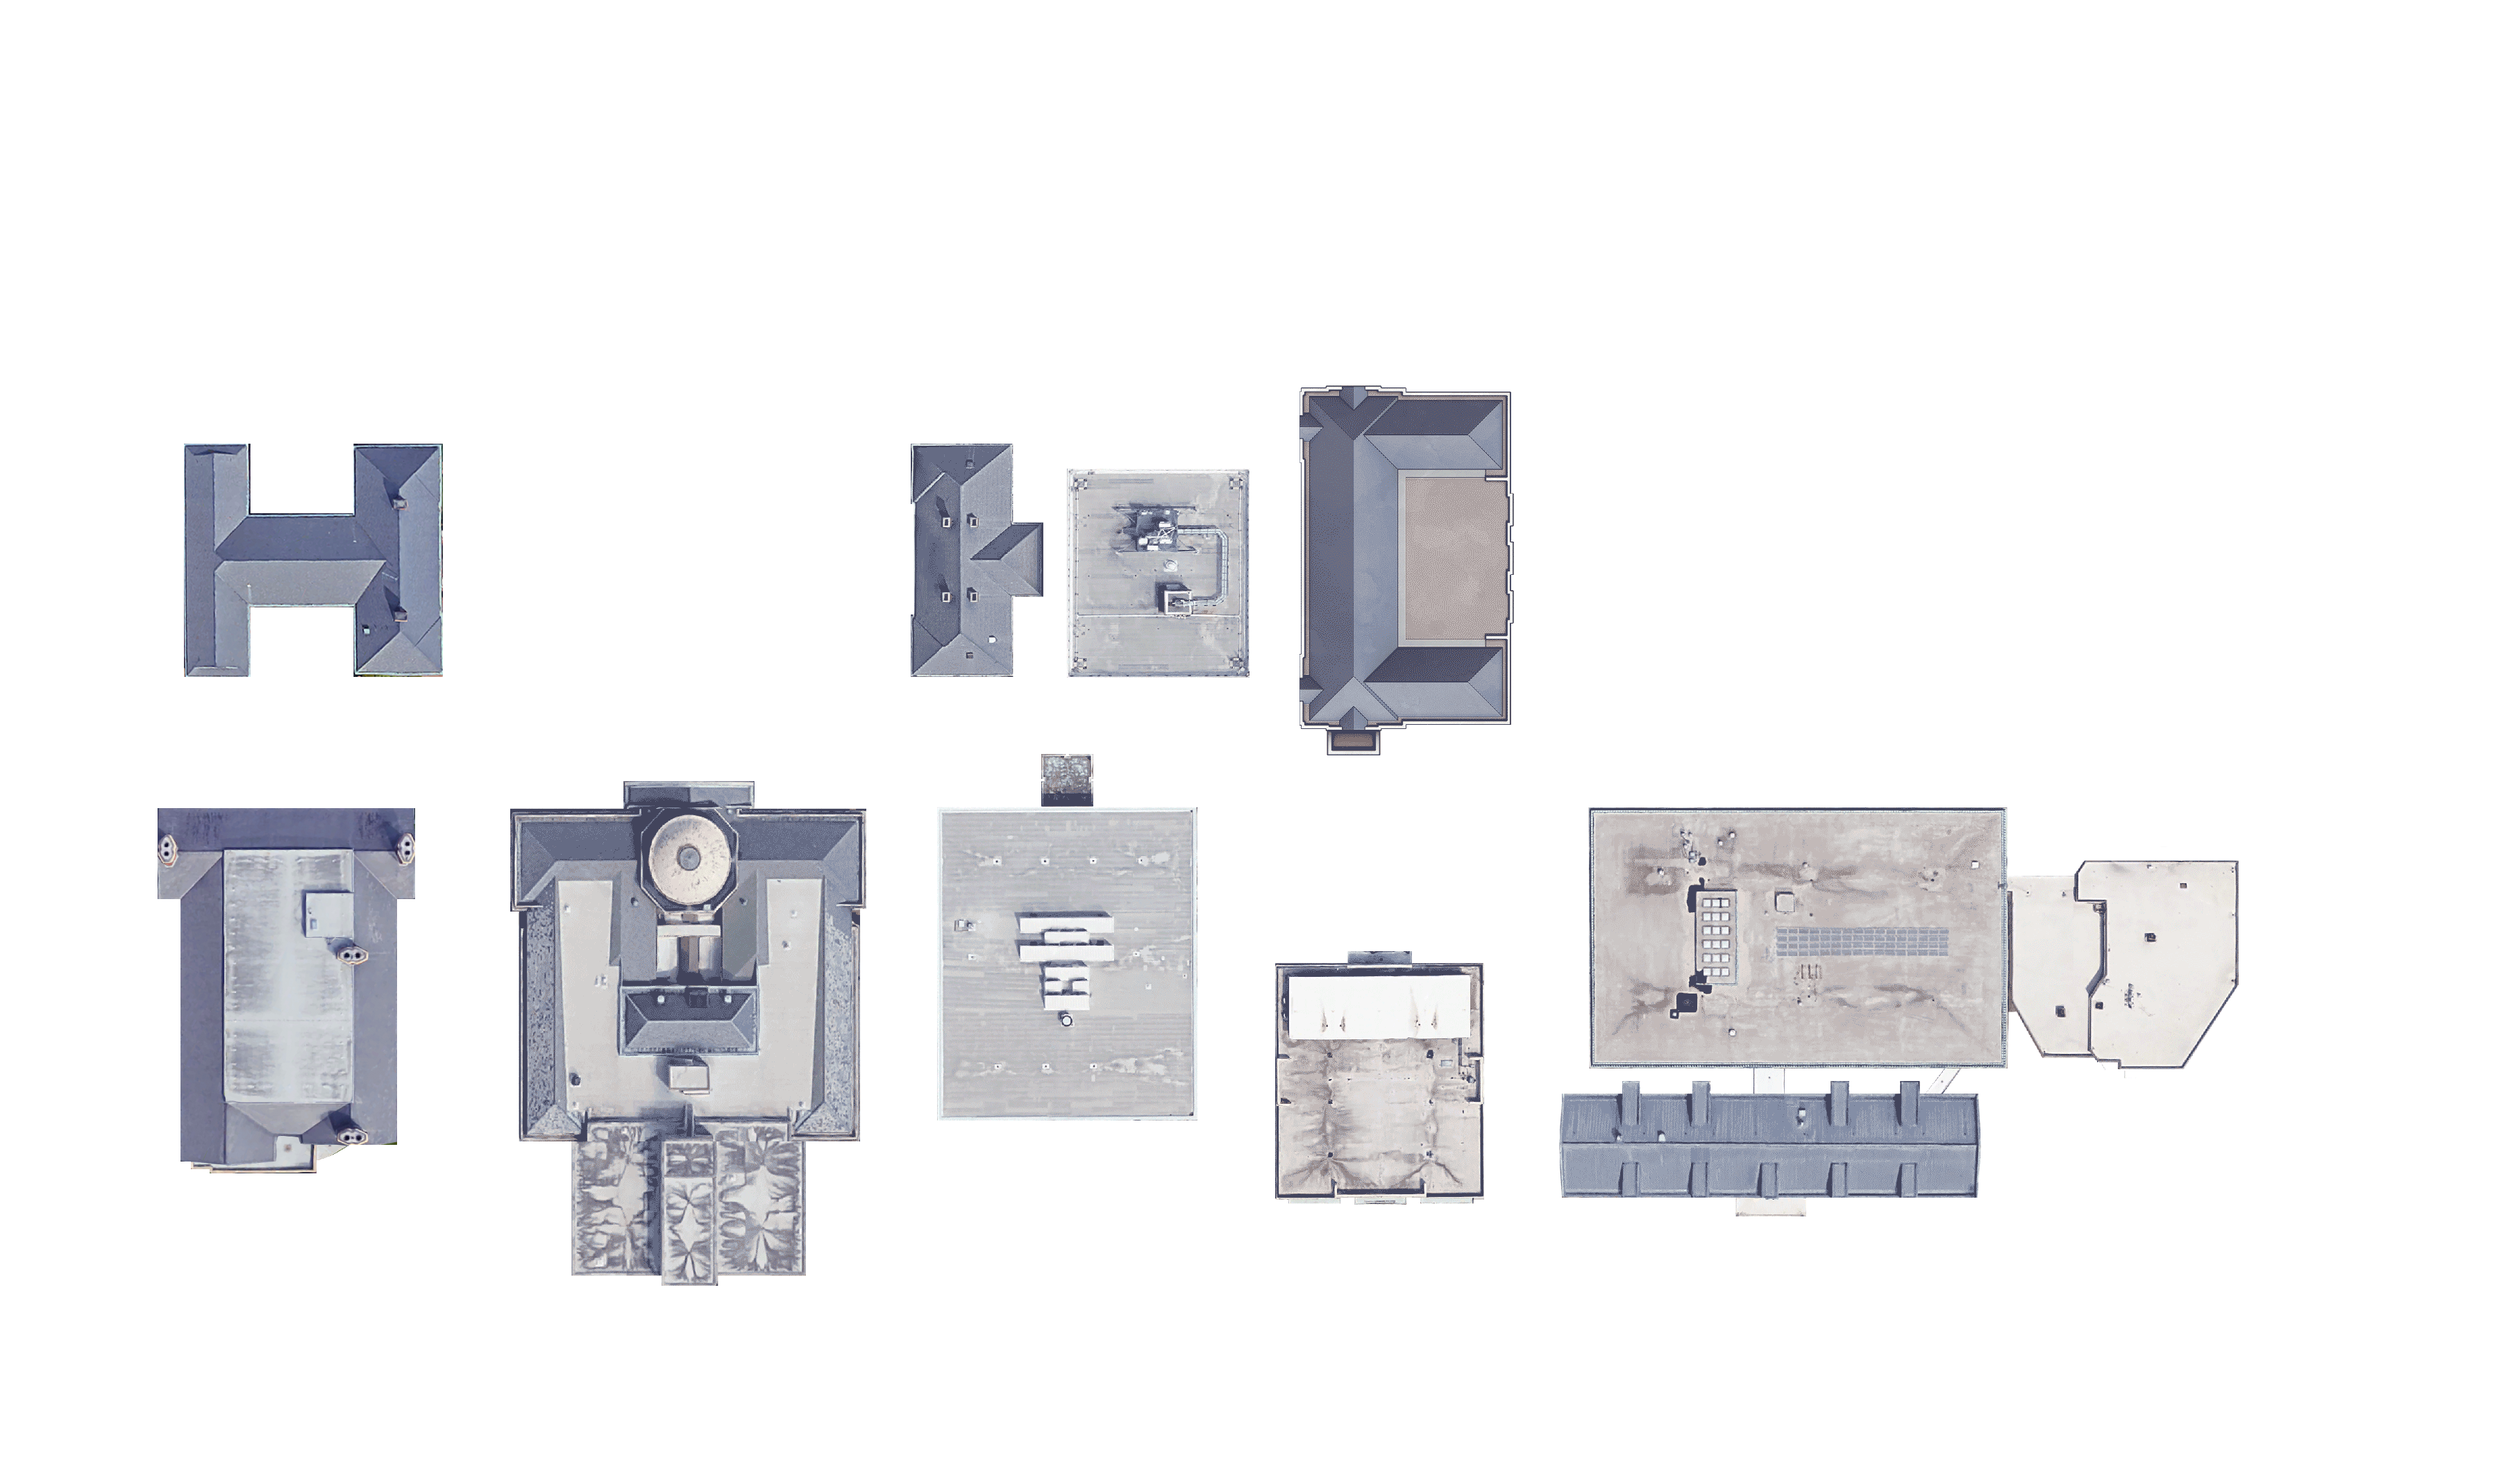
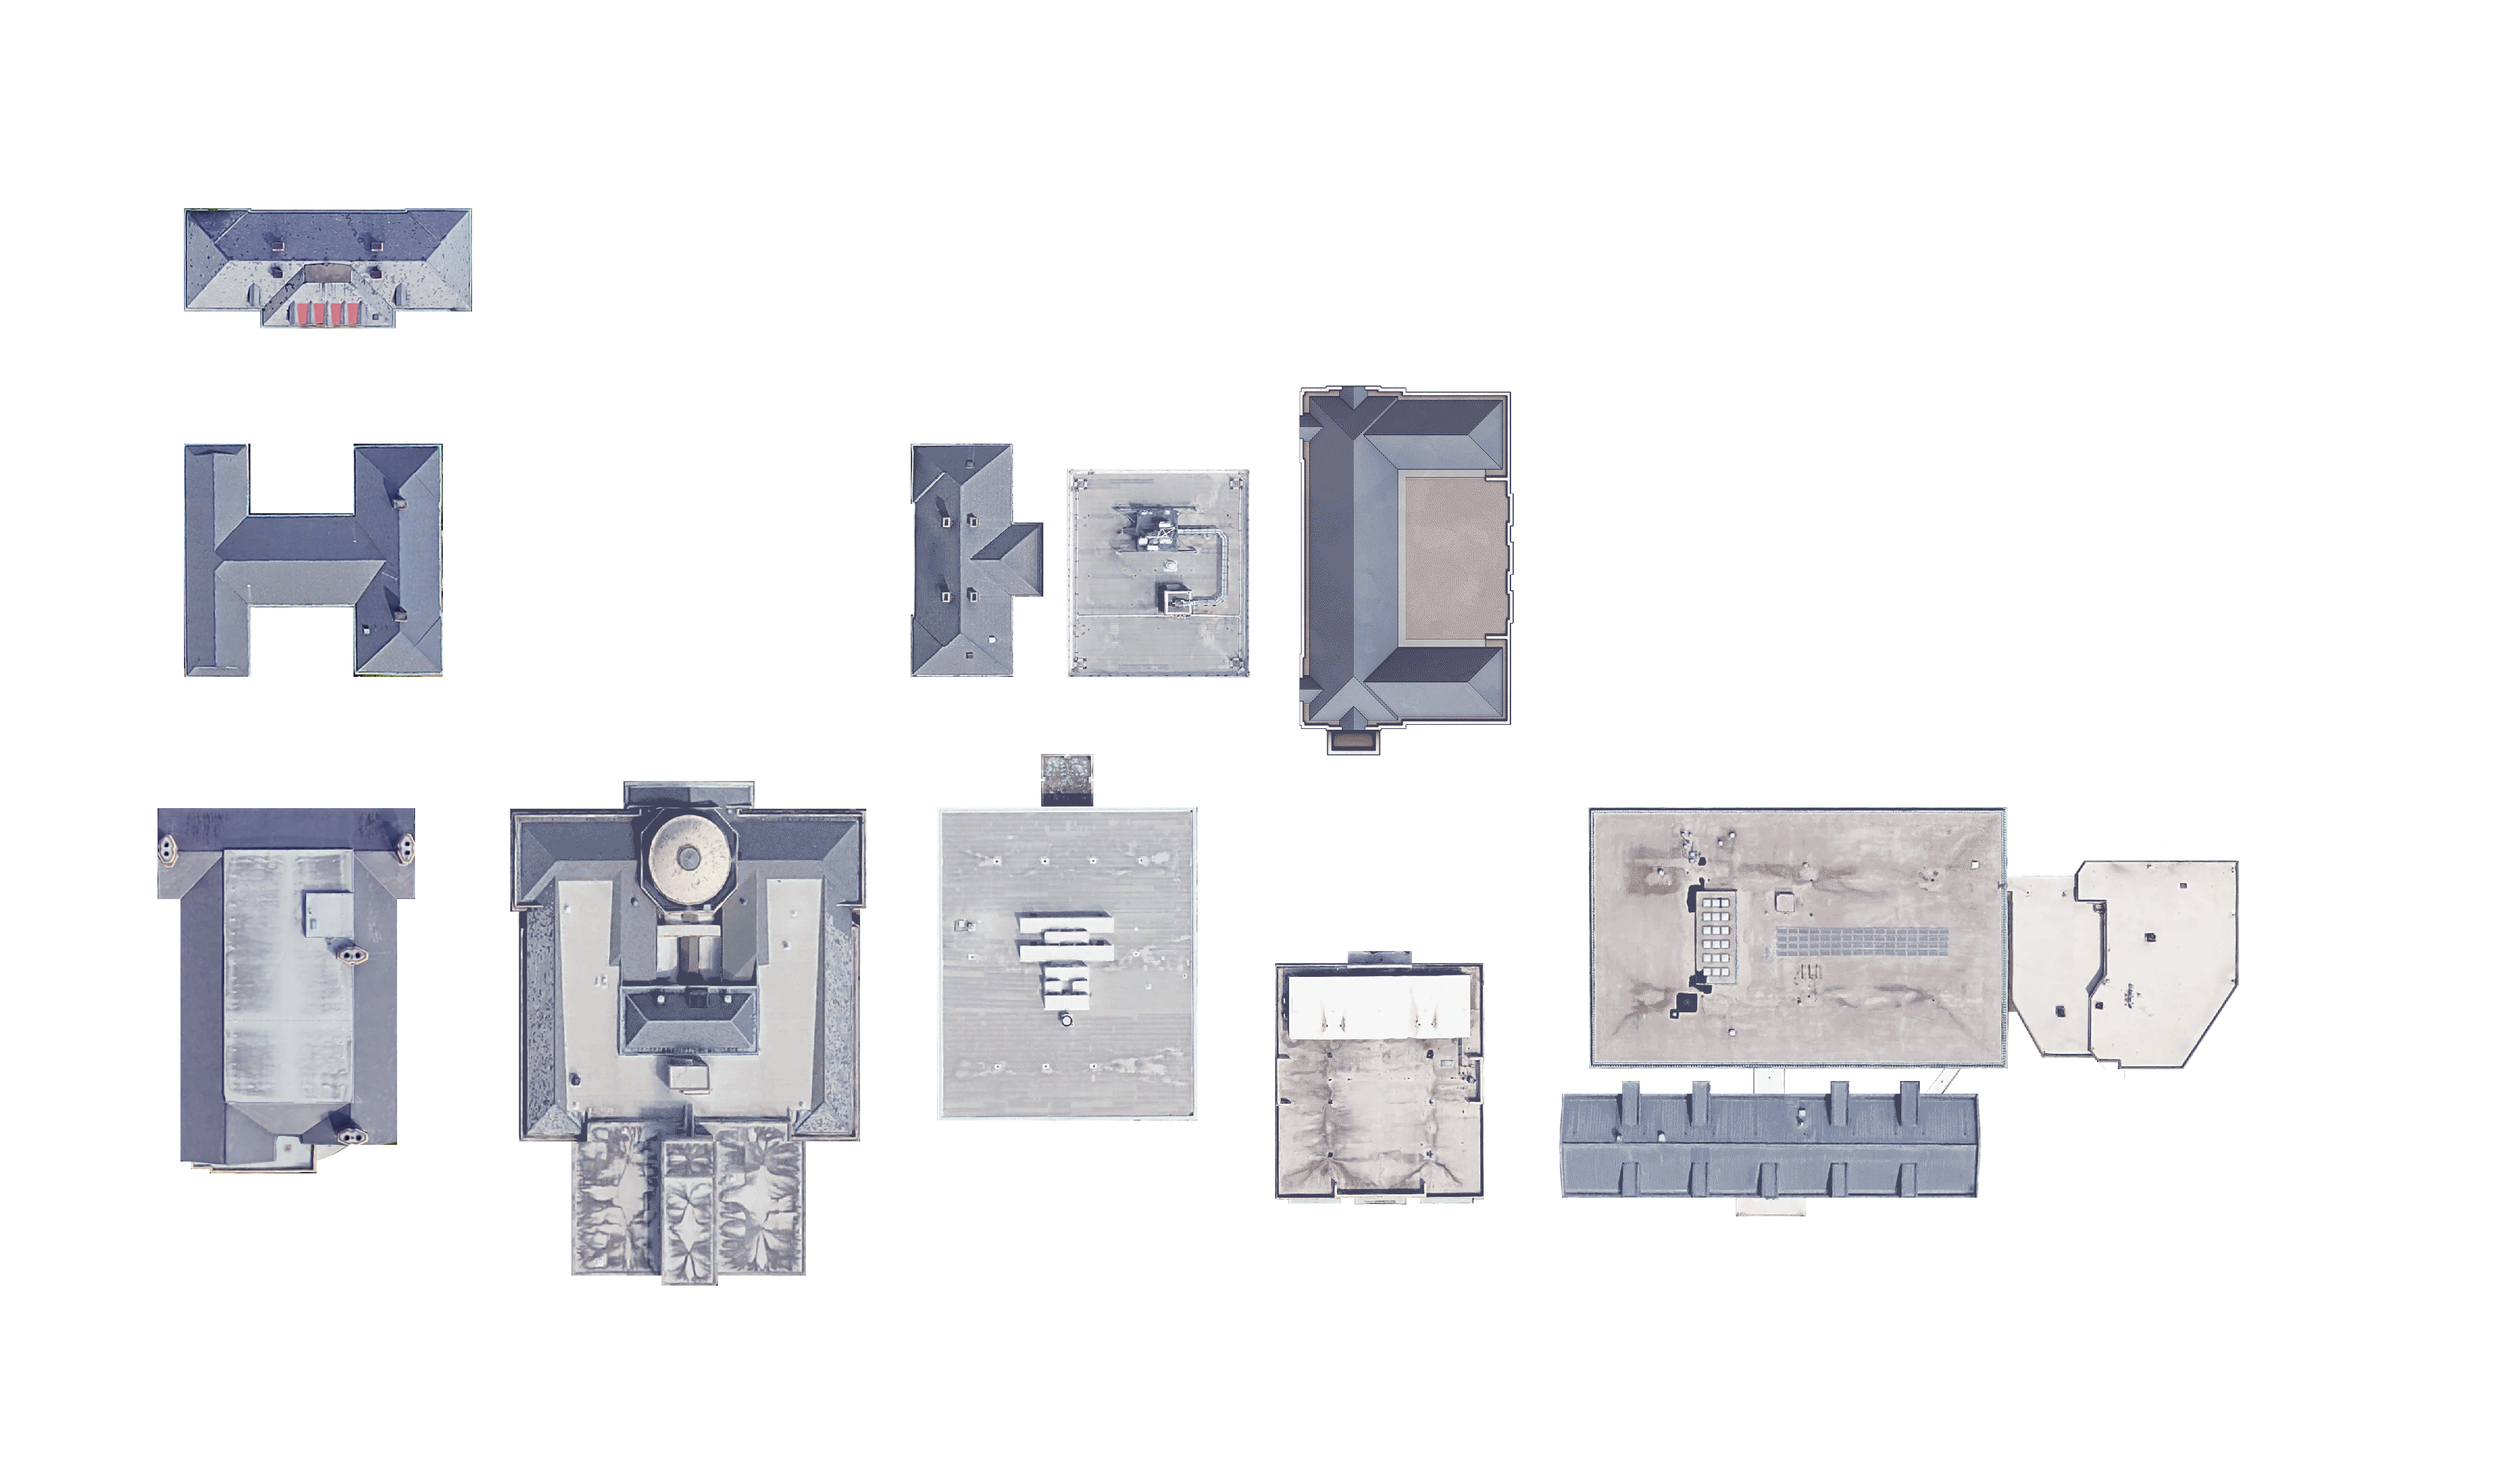
Added Gardner

Changed region(s): [[0.0622, 0.1238, 0.1867, 0.2476]]

diff --git a/index.html b/index.html
@@ -143,6 +143,7 @@
                     <img id="wilson2" src="img/wilson_02.png" class="overlay">
                     <img id="caudill" src="img/caudill.png" class="overlay">
                     <img id="dey" src="img/dey.png" class="overlay">
+                    <img id="gardner" src="img/gardner.png" class="overlay">
 
                     <img id="collision_border" src="img/collision_border.png" class="overlay">
                 </div> 

diff --git a/css/style.css b/css/style.css
@@ -425,6 +425,15 @@ body {
     z-index: 10;
 }
 
+#gardner.overlay {
+    position: absolute;
+    height: calc(7 * 50px);
+    width: calc(13 * 50px);
+    top: calc(7 * 50px);
+    left: calc(6 * 50px);
+    z-index: 10;
+}
+
 #minimap {
     width: 200px;
     height: 117px;
